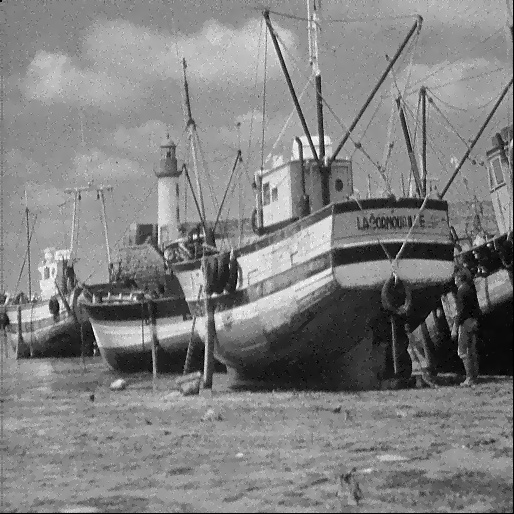
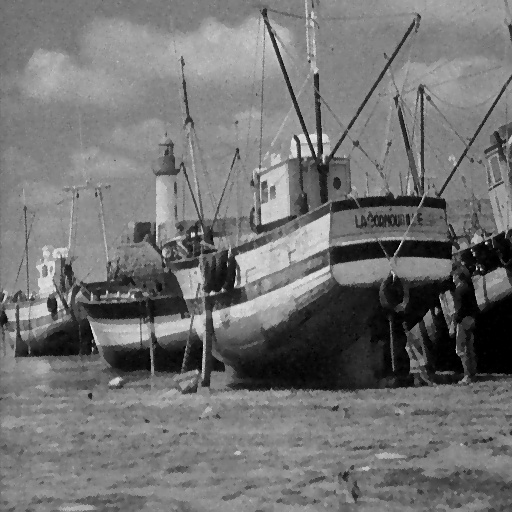
fix indexing issues.

diff --git a/nonlinear_diffusion.py b/nonlinear_diffusion.py
@@ -6,56 +6,57 @@ from loader import Loader
 
 
 @njit
-def calculate_diffusivity(img_obj, shape, variance):
-    x, y = shape
+def calculate_diffusivity(img_obj, org_img_shape, variance):
+    x, y = org_img_shape
     diffusivity_matrix = np.zeros((x+2, y+2))
     # hard-coding ahead :(
-    for i in range(x + 1):
-        for j in range(y + 1):
+    for i in range(1, x + 3):
+        for j in range(1, y + 3):
             x_derivative = (img_obj[i+1, j] - img_obj[i-1, j])/2
             y_derivative = (img_obj[i, j+1] - img_obj[i, j-1])/2
             grad_square = x_derivative ** 2 + y_derivative ** 2
-            diffusivity_matrix[i][j] = np.e ** - (grad_square / variance)
-
+            diffusivity_matrix[i-1][j-1] = np.e ** - (grad_square / variance)
     # print(diffusivity_matrix.shape)
     return diffusivity_matrix
 
 
 @njit
-def diffuse(img_obj, diffusivity_matrix, tau):
-    x, y = diffusivity_matrix.shape
-    new_img_obj = np.zeros(diffusivity_matrix.shape)
+def diffuse(img_obj, diffusivity_matrix, tau, org_img_shape):
+    x, y = org_img_shape
+    new_img_obj = np.zeros(org_img_shape)
     # hard-coding ahead :(
-    for i in range(x - 1):
-        for j in range(y - 1):
+    # index assignments are really crazy.
+    for i in range(1, x+1):
+        for j in range(1, y+1):
             diffusivity_i_half_pos = (diffusivity_matrix[i + 1][j] + diffusivity_matrix[i][j]) / 2
             diffusivity_i_half_neg = (diffusivity_matrix[i - 1][j] + diffusivity_matrix[i][j]) / 2
             diffusivity_j_half_pos = (diffusivity_matrix[i][j + 1] + diffusivity_matrix[i][j]) / 2
             diffusivity_j_half_neg = (diffusivity_matrix[i][j - 1] + diffusivity_matrix[i][j]) / 2
-            central_pixel_contrib = (1 - tau * (diffusivity_i_half_pos + diffusivity_i_half_neg + diffusivity_j_half_pos + diffusivity_j_half_neg)) * img_obj[i][j]
-            neighbour_pixel_contrib = tau * (diffusivity_i_half_pos * img_obj[i+1][j] +
-                                             diffusivity_i_half_neg * img_obj[i-1][j] +
-                                             diffusivity_j_half_pos * img_obj[i][j+1] +
-                                             diffusivity_j_half_neg * img_obj[i][j-1])
-            new_img_obj[i, j] = central_pixel_contrib + neighbour_pixel_contrib
+            central_pixel_contrib = (1 - tau * (diffusivity_i_half_pos + diffusivity_i_half_neg + diffusivity_j_half_pos + diffusivity_j_half_neg)) * img_obj[i+1][j+1]
+            neighbour_pixel_contrib = tau * (diffusivity_i_half_pos * img_obj[i+2][j+1] +
+                                             diffusivity_i_half_neg * img_obj[i][j+1] +
+                                             diffusivity_j_half_pos * img_obj[i+1][j+2] +
+                                             diffusivity_j_half_neg * img_obj[i+1][j])
+            new_img_obj[i - 1][j - 1] = central_pixel_contrib + neighbour_pixel_contrib
     return new_img_obj
 
 
-def nonlinear_isotropic_diffusion(img_obj, shape):
-    steps = 100
+# @njit
+def nonlinear_isotropic_diffusion(img_obj, org_img_shape):
+    steps = 30
     variance = steps * 2
-    tau = 0.1
+    variance = 50
+    tau = 0.025
     for i in range(steps):
-        diffusivity_matrix = calculate_diffusivity(img_obj, shape, 10)
-        new_img_obj = diffuse(img_obj, diffusivity_matrix, tau)
-        # i dont know why i did it.
-        img_obj = new_img_obj
-    return img_obj
+        diffusivity_matrix = calculate_diffusivity(img_obj, org_img_shape, variance)
+        new_img_obj = diffuse(img_obj, diffusivity_matrix, tau, org_img_shape)
+        img_obj = Loader.load_image_with_mirrored_border(new_img_obj, 2)
+    return new_img_obj
 
 
 img_obj = cv2.imread("data/BoatsNoise10.pgm", cv2.IMREAD_GRAYSCALE)
-shape = img_obj.shape
+org_img_shape = img_obj.shape
 img_obj = Loader.load_image_with_mirrored_border(img_obj, 2)
 # print(img_obj.shape)
-img_obj = nonlinear_isotropic_diffusion(img_obj, shape)
+img_obj = nonlinear_isotropic_diffusion(img_obj, org_img_shape)
 cv2.imwrite("data/BoatsProcessed.jpeg", img_obj)
